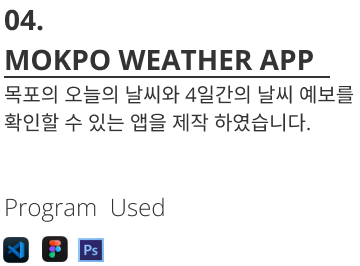
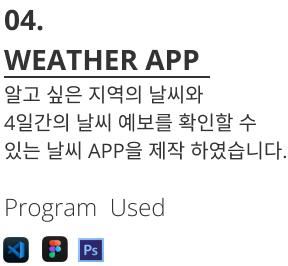
address re

diff --git a/index.html b/index.html
@@ -37,9 +37,9 @@
             <li><a href="#" datanum="1">PROFILE</a></li>
             <li><a href="#" datanum="2">OTTOGI</a></li>
             <li><a href="#" datanum="3">VOGUE</a></li>
-            <li><a href="#" datanum="4">Friend's house</a></li>
-            <li><a href="#" datanum="5">MOKPO WEATHER APP</a></li>
-            <li><a href="#" datanum="6">RIA APP</a></li>
+            <li><a href="#" datanum="4">FRIEND'S HOUSE</a></li>
+            <li><a href="#" datanum="5">WEATHER APP</a></li>
+            <li><a href="#" datanum="6">RIA</a></li>
         </ul>
     </nav>
 
@@ -120,7 +120,7 @@
                 <div class="mockup"></div>
             </a>  
         </section>
-        <section id="work04"><!-- 목포 날씨 앱 -->
+        <section id="work04"><!--날씨 앱 -->
             <div class="card4">
                 <img src="img/profile-4-intro.png" alt="">
             </div>
@@ -132,7 +132,7 @@
             <div class="card5">
                 <img src="img/profile-5-intro.png" alt="">
             </div>
-            <!-- <a href="https://mari3233.github.io/MyApp/" target="_blank"> -->
+            <a href="https://mari3233.github.io/ria_event/" target="_blank">
                 <div class="mockup"></div>
             </a>  
         </section>

diff --git a/css/main.css b/css/main.css
@@ -89,7 +89,7 @@ section:nth-child(even){
 /* burger -re*/
 .burger{width: 30px; height: 30px; cursor: pointer;
     position: fixed;
-    top: 40px; right: 40px;
+    top: 80px; right: 80px;
     z-index: 999999999;
 }
 .burger .bar{
@@ -135,6 +135,7 @@ nav{
     width: 100%; height: 100vh;
     background: rgba(0,0,0,.0);
     transition: .6s;
+    font-size: 14px;
 }
 nav.on{   
     z-index: 99999;    
@@ -162,10 +163,11 @@ nav .gnb a{
     transition: .3s;
 }
 nav .gnb a:hover{
-    background: darkorchid;    
+    background: #aaf;    
 }
 nav .gnb a.active{
     background: #eee;
+    color: #333;
 }
 /* nav end */
 
@@ -301,7 +303,7 @@ section.on .card3{
 
 section .card4{
     position: absolute;
-    width: 183px;
+    width: 144px;
     height: 133px;
     left: -150px;
     top: 620px;
@@ -464,7 +466,7 @@ section:last-child .mockup{
     border-radius: 20px;
     background: var(--btn-bg);
     position: absolute;
-    top: 40px; left: 40px;   
+    top: 80px; left: 80px;   
 }
 .btn.active{
     background: var(--light-btn-bg);
